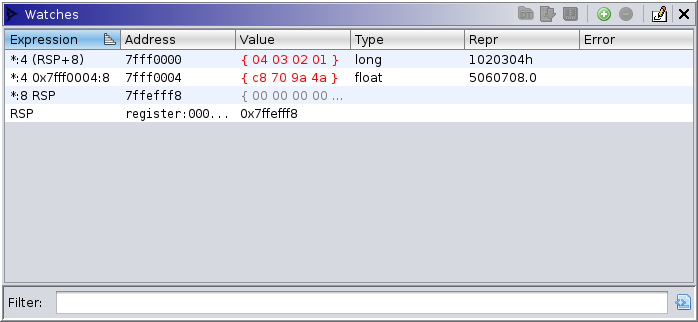
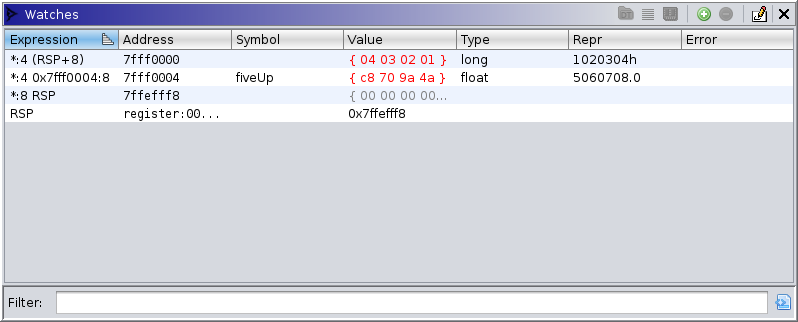
GP-1773: Add 'Symbol' column to watches table.

diff --git a/Ghidra/Debug/Debugger/src/main/help/help/topics/DebuggerWatchesPlugin/DebuggerWatchesPlugin.html b/Ghidra/Debug/Debugger/src/main/help/help/topics/DebuggerWatchesPlugin/DebuggerWatchesPlugin.html
@@ -66,6 +66,12 @@
       Double-clicking this cell will navigate the primary dynamic listing to this address, if
       possible.</LI>
 
+      <LI>Symbol - the symbol best representing the address, if applicable. When the watch has an
+      address in memory, this will search the trace for a symbol at that address, preferring the
+      primary. If no such symbol exists, it will search in the mapped static program, if there is
+      one, again preferring the primary symbol. Finally, it will search for a containing function
+      in the mapped program.</LI>
+
       <LI>Value - the raw bytes of the watched buffer. If the expression is a register, then this
       is its hexadecimal value. This field is user modifiable when the <B>Enable Edits</B> toggle
       is on, and the <A href=

diff --git a/Ghidra/Debug/Debugger/src/main/java/ghidra/app/plugin/core/debug/gui/watch/WatchRow.java b/Ghidra/Debug/Debugger/src/main/java/ghidra/app/plugin/core/debug/gui/watch/WatchRow.java
@@ -16,10 +16,11 @@
 package ghidra.app.plugin.core.debug.gui.watch;
 
 import java.math.BigInteger;
-import java.util.Arrays;
-import java.util.Objects;
+import java.util.*;
 
 import org.apache.commons.lang3.tuple.Pair;
+
+import com.google.common.collect.Range;
 
 import ghidra.app.plugin.core.debug.DebuggerCoordinates;
 import ghidra.app.plugin.processors.sleigh.SleighLanguage;
@@ -35,11 +36,16 @@ import ghidra.program.model.address.*;
 import ghidra.program.model.data.DataType;
 import ghidra.program.model.data.DataTypeEncodeException;
 import ghidra.program.model.lang.Language;
+import ghidra.program.model.listing.Function;
+import ghidra.program.model.listing.Program;
 import ghidra.program.model.mem.ByteMemBufferImpl;
 import ghidra.program.model.mem.MemBuffer;
-import ghidra.trace.model.Trace;
+import ghidra.program.model.symbol.*;
+import ghidra.program.util.ProgramLocation;
+import ghidra.trace.model.*;
 import ghidra.trace.model.memory.TraceMemorySpace;
 import ghidra.trace.model.memory.TraceMemoryState;
+import ghidra.trace.model.symbol.TraceLabelSymbol;
 import ghidra.trace.model.thread.TraceThread;
 import ghidra.util.*;
 
@@ -61,6 +67,7 @@ public class WatchRow {
 	private PcodeExpression compiled;
 	private TraceMemoryState state;
 	private Address address;
+	private Symbol symbol;
 	private AddressSet reads;
 	private byte[] value;
 	private byte[] prevValue; // Value at previous coordinates
@@ -76,6 +83,7 @@ public class WatchRow {
 	protected void blank() {
 		state = null;
 		address = null;
+		symbol = null;
 		reads = null;
 		value = null;
 		valueString = null;
@@ -126,6 +134,7 @@ public class WatchRow {
 			error = null;
 			state = valueWithState.getRight();
 			address = valueWithAddress.getRight();
+			symbol = computeSymbol();
 			reads = executorWithAddress.getReads();
 
 			valueObj = parseAsDataTypeObj();
@@ -475,6 +484,47 @@ public class WatchRow {
 
 	public int getValueLength() {
 		return value == null ? 0 : value.length;
+	}
+
+	protected Symbol computeSymbol() {
+		if (address == null || !address.isMemoryAddress()) {
+			return null;
+		}
+		Collection<? extends TraceLabelSymbol> labels =
+			trace.getSymbolManager().labels().getAt(coordinates.getSnap(), null, address, false);
+		if (!labels.isEmpty()) {
+			return labels.iterator().next();
+		}
+		// TODO: Check trace functions? They don't work yet.
+		if (provider.mappingService == null) {
+			return null;
+		}
+		TraceLocation dloc =
+			new DefaultTraceLocation(trace, null, Range.singleton(coordinates.getSnap()), address);
+		ProgramLocation sloc = provider.mappingService.getOpenMappedLocation(dloc);
+		if (sloc == null) {
+			return null;
+		}
+
+		Program program = sloc.getProgram();
+		SymbolTable table = program.getSymbolTable();
+		Symbol primary = table.getPrimarySymbol(address);
+		if (primary != null) {
+			return primary;
+		}
+		SymbolIterator sit = table.getSymbolsAsIterator(sloc.getByteAddress());
+		if (sit.hasNext()) {
+			return sit.next();
+		}
+		Function function = program.getFunctionManager().getFunctionContaining(address);
+		if (function != null) {
+			return function.getSymbol();
+		}
+		return null;
+	}
+
+	public Symbol getSymbol() {
+		return symbol;
 	}
 
 	public String getErrorMessage() {

diff --git a/Ghidra/Debug/Debugger/src/test/java/ghidra/app/plugin/core/debug/gui/watch/DebuggerWatchesProviderTest.java b/Ghidra/Debug/Debugger/src/test/java/ghidra/app/plugin/core/debug/gui/watch/DebuggerWatchesProviderTest.java
@@ -43,6 +43,8 @@ import ghidra.program.model.data.*;
 import ghidra.program.model.lang.Register;
 import ghidra.program.model.lang.RegisterValue;
 import ghidra.program.model.mem.Memory;
+import ghidra.program.model.symbol.SourceType;
+import ghidra.program.model.symbol.Symbol;
 import ghidra.program.util.ProgramLocation;
 import ghidra.trace.database.DBTraceUtils;
 import ghidra.trace.model.DefaultTraceLocation;
@@ -443,7 +445,7 @@ public class DebuggerWatchesProviderTest extends AbstractGhidraHeadedDebuggerGUI
 		});
 	}
 
-	protected WatchRow prepareTestEditTarget(String expression) throws Exception {
+	protected WatchRow prepareTestEditTarget(String expression) throws Throwable {
 		createTestModel();
 		mb.createTestProcessesAndThreads();
 		bank = mb.testThread1.addRegisterBank();
@@ -456,6 +458,7 @@ public class DebuggerWatchesProviderTest extends AbstractGhidraHeadedDebuggerGUI
 		recorder = modelService.recordTarget(mb.testProcess1,
 			createTargetTraceMapper(mb.testProcess1), ActionSource.AUTOMATIC);
 		Trace trace = recorder.getTrace();
+		waitRecorder(recorder);
 		TraceThread thread = waitForValue(() -> recorder.getTraceThread(mb.testThread1));
 
 		traceManager.openTrace(trace);
@@ -648,5 +651,30 @@ public class DebuggerWatchesProviderTest extends AbstractGhidraHeadedDebuggerGUI
 		WatchRow watch = Unique.assertOne(watchesProvider.watchTableModel.getModelData());
 		assertEquals("r0", watch.getExpression());
 		assertTypeEquals(PointerDataType.dataType, watch.getDataType());
+	}
+
+	@Test
+	public void testSymbolColumnWithMappedProgram() throws Throwable {
+		setupMappedDataSection();
+
+		Symbol symbol;
+		try (UndoableTransaction tid = UndoableTransaction.start(program, "Add symbol", true)) {
+			symbol = program.getSymbolTable()
+					.createLabel(tb.addr(0x00601234), "my_symbol", SourceType.USER_DEFINED);
+		}
+		try (UndoableTransaction tid = tb.startTransaction()) {
+			TraceMemoryRegisterSpace regVals =
+				tb.trace.getMemoryManager().getMemoryRegisterSpace(thread, true);
+			regVals.setValue(0, new RegisterValue(r0, BigInteger.valueOf(0x55751234)));
+		}
+
+		performAction(watchesProvider.actionAdd);
+		WatchRow row = Unique.assertOne(watchesProvider.watchTableModel.getModelData());
+		row.setExpression("*:8 r0");
+
+		traceManager.activateThread(thread);
+		waitForSwing();
+
+		assertEquals(symbol, row.getSymbol());
 	}
 }

diff --git a/Ghidra/Debug/Debugger/src/screen/java/ghidra/app/plugin/core/debug/gui/watch/DebuggerWatchesPluginScreenShots.java b/Ghidra/Debug/Debugger/src/screen/java/ghidra/app/plugin/core/debug/gui/watch/DebuggerWatchesPluginScreenShots.java
@@ -23,6 +23,7 @@ import ghidra.pcode.exec.PcodeExecutor;
 import ghidra.pcode.exec.trace.TraceSleighUtils;
 import ghidra.program.model.data.FloatDataType;
 import ghidra.program.model.data.LongDataType;
+import ghidra.program.model.symbol.SourceType;
 import ghidra.test.ToyProgramBuilder;
 import ghidra.trace.database.ToyDBTraceBuilder;
 import ghidra.trace.model.thread.TraceThread;
@@ -59,6 +60,11 @@ public class DebuggerWatchesPluginScreenShots extends GhidraScreenShotGenerator 
 			snap0 = tb.trace.getTimeManager().createSnapshot("First").getKey();
 			snap1 = tb.trace.getTimeManager().createSnapshot("Second").getKey();
 
+			tb.trace.getSymbolManager()
+					.labels()
+					.create(snap1, null, tb.addr(0x7fff0004), "fiveUp",
+						tb.trace.getSymbolManager().getGlobalNamespace(), SourceType.USER_DEFINED);
+
 			thread = tb.getOrAddThread("[1]", snap0);
 
 			PcodeExecutor<byte[]> executor0 =
@@ -81,11 +87,12 @@ public class DebuggerWatchesPluginScreenShots extends GhidraScreenShotGenerator 
 		traceManager.openTrace(tb.trace);
 		traceManager.activateThread(thread);
 		waitForSwing();
+		// So that it shows changes in red, activate snaps in sequence
 		traceManager.activateSnap(snap0);
 		waitForSwing();
 		traceManager.activateSnap(snap1);
 		waitForSwing();
 
-		captureIsolatedProvider(watchesProvider, 700, 400);
+		captureIsolatedProvider(watchesProvider, 800, 400);
 	}
 }

diff --git a/Ghidra/Debug/Debugger/src/main/java/ghidra/app/plugin/core/debug/gui/watch/DebuggerWatchesProvider.java b/Ghidra/Debug/Debugger/src/main/java/ghidra/app/plugin/core/debug/gui/watch/DebuggerWatchesProvider.java
@@ -61,6 +61,7 @@ import ghidra.program.model.address.*;
 import ghidra.program.model.data.DataType;
 import ghidra.program.model.lang.Register;
 import ghidra.program.model.listing.*;
+import ghidra.program.model.symbol.Symbol;
 import ghidra.program.model.util.CodeUnitInsertionException;
 import ghidra.program.util.ProgramLocation;
 import ghidra.program.util.ProgramSelection;
@@ -84,6 +85,7 @@ public class DebuggerWatchesProvider extends ComponentProviderAdapter {
 	protected enum WatchTableColumns implements EnumeratedTableColumn<WatchTableColumns, WatchRow> {
 		EXPRESSION("Expression", String.class, WatchRow::getExpression, WatchRow::setExpression),
 		ADDRESS("Address", Address.class, WatchRow::getAddress),
+		SYMBOL("Symbol", Symbol.class, WatchRow::getSymbol),
 		VALUE("Value", String.class, WatchRow::getRawValueString, WatchRow::setRawValueString, //
 				WatchRow::isRawValueEditable),
 		TYPE("Type", DataType.class, WatchRow::getDataType, WatchRow::setDataType),
@@ -255,7 +257,7 @@ public class DebuggerWatchesProvider extends ComponentProviderAdapter {
 	@AutoServiceConsumed
 	protected DebuggerStateEditingService editingService;
 	@AutoServiceConsumed
-	private DebuggerStaticMappingService mappingService; // For listing action
+	DebuggerStaticMappingService mappingService;
 	@SuppressWarnings("unused")
 	private final AutoService.Wiring autoServiceWiring;
 
